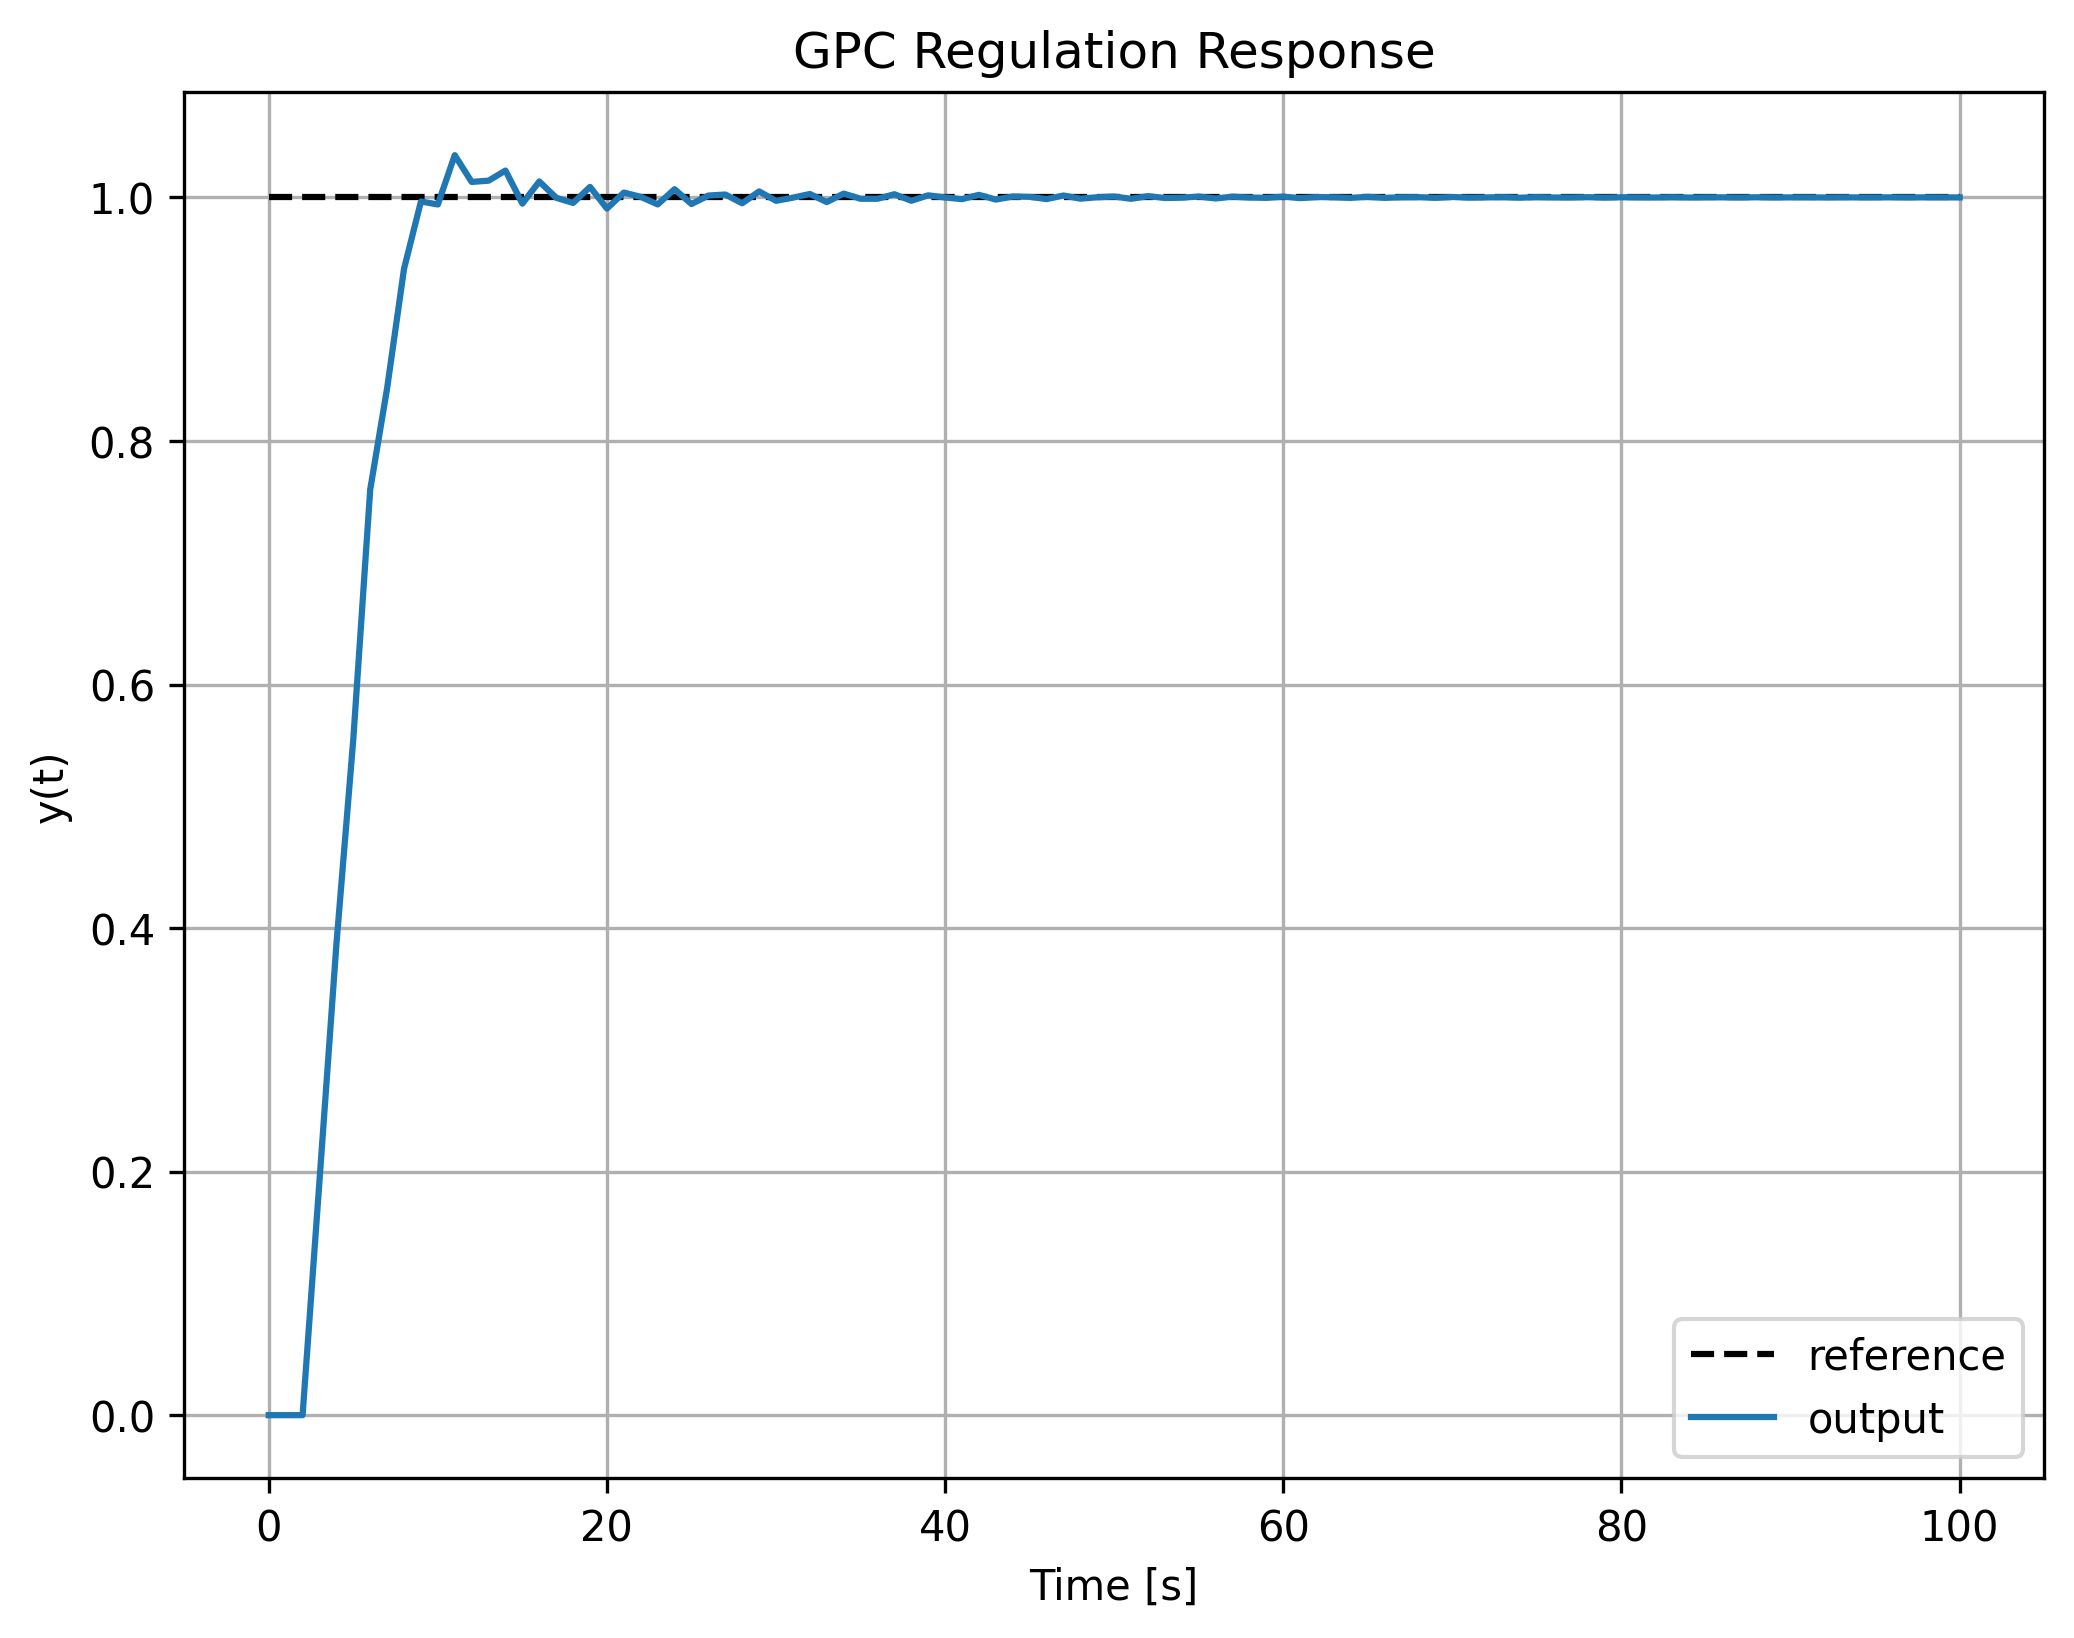
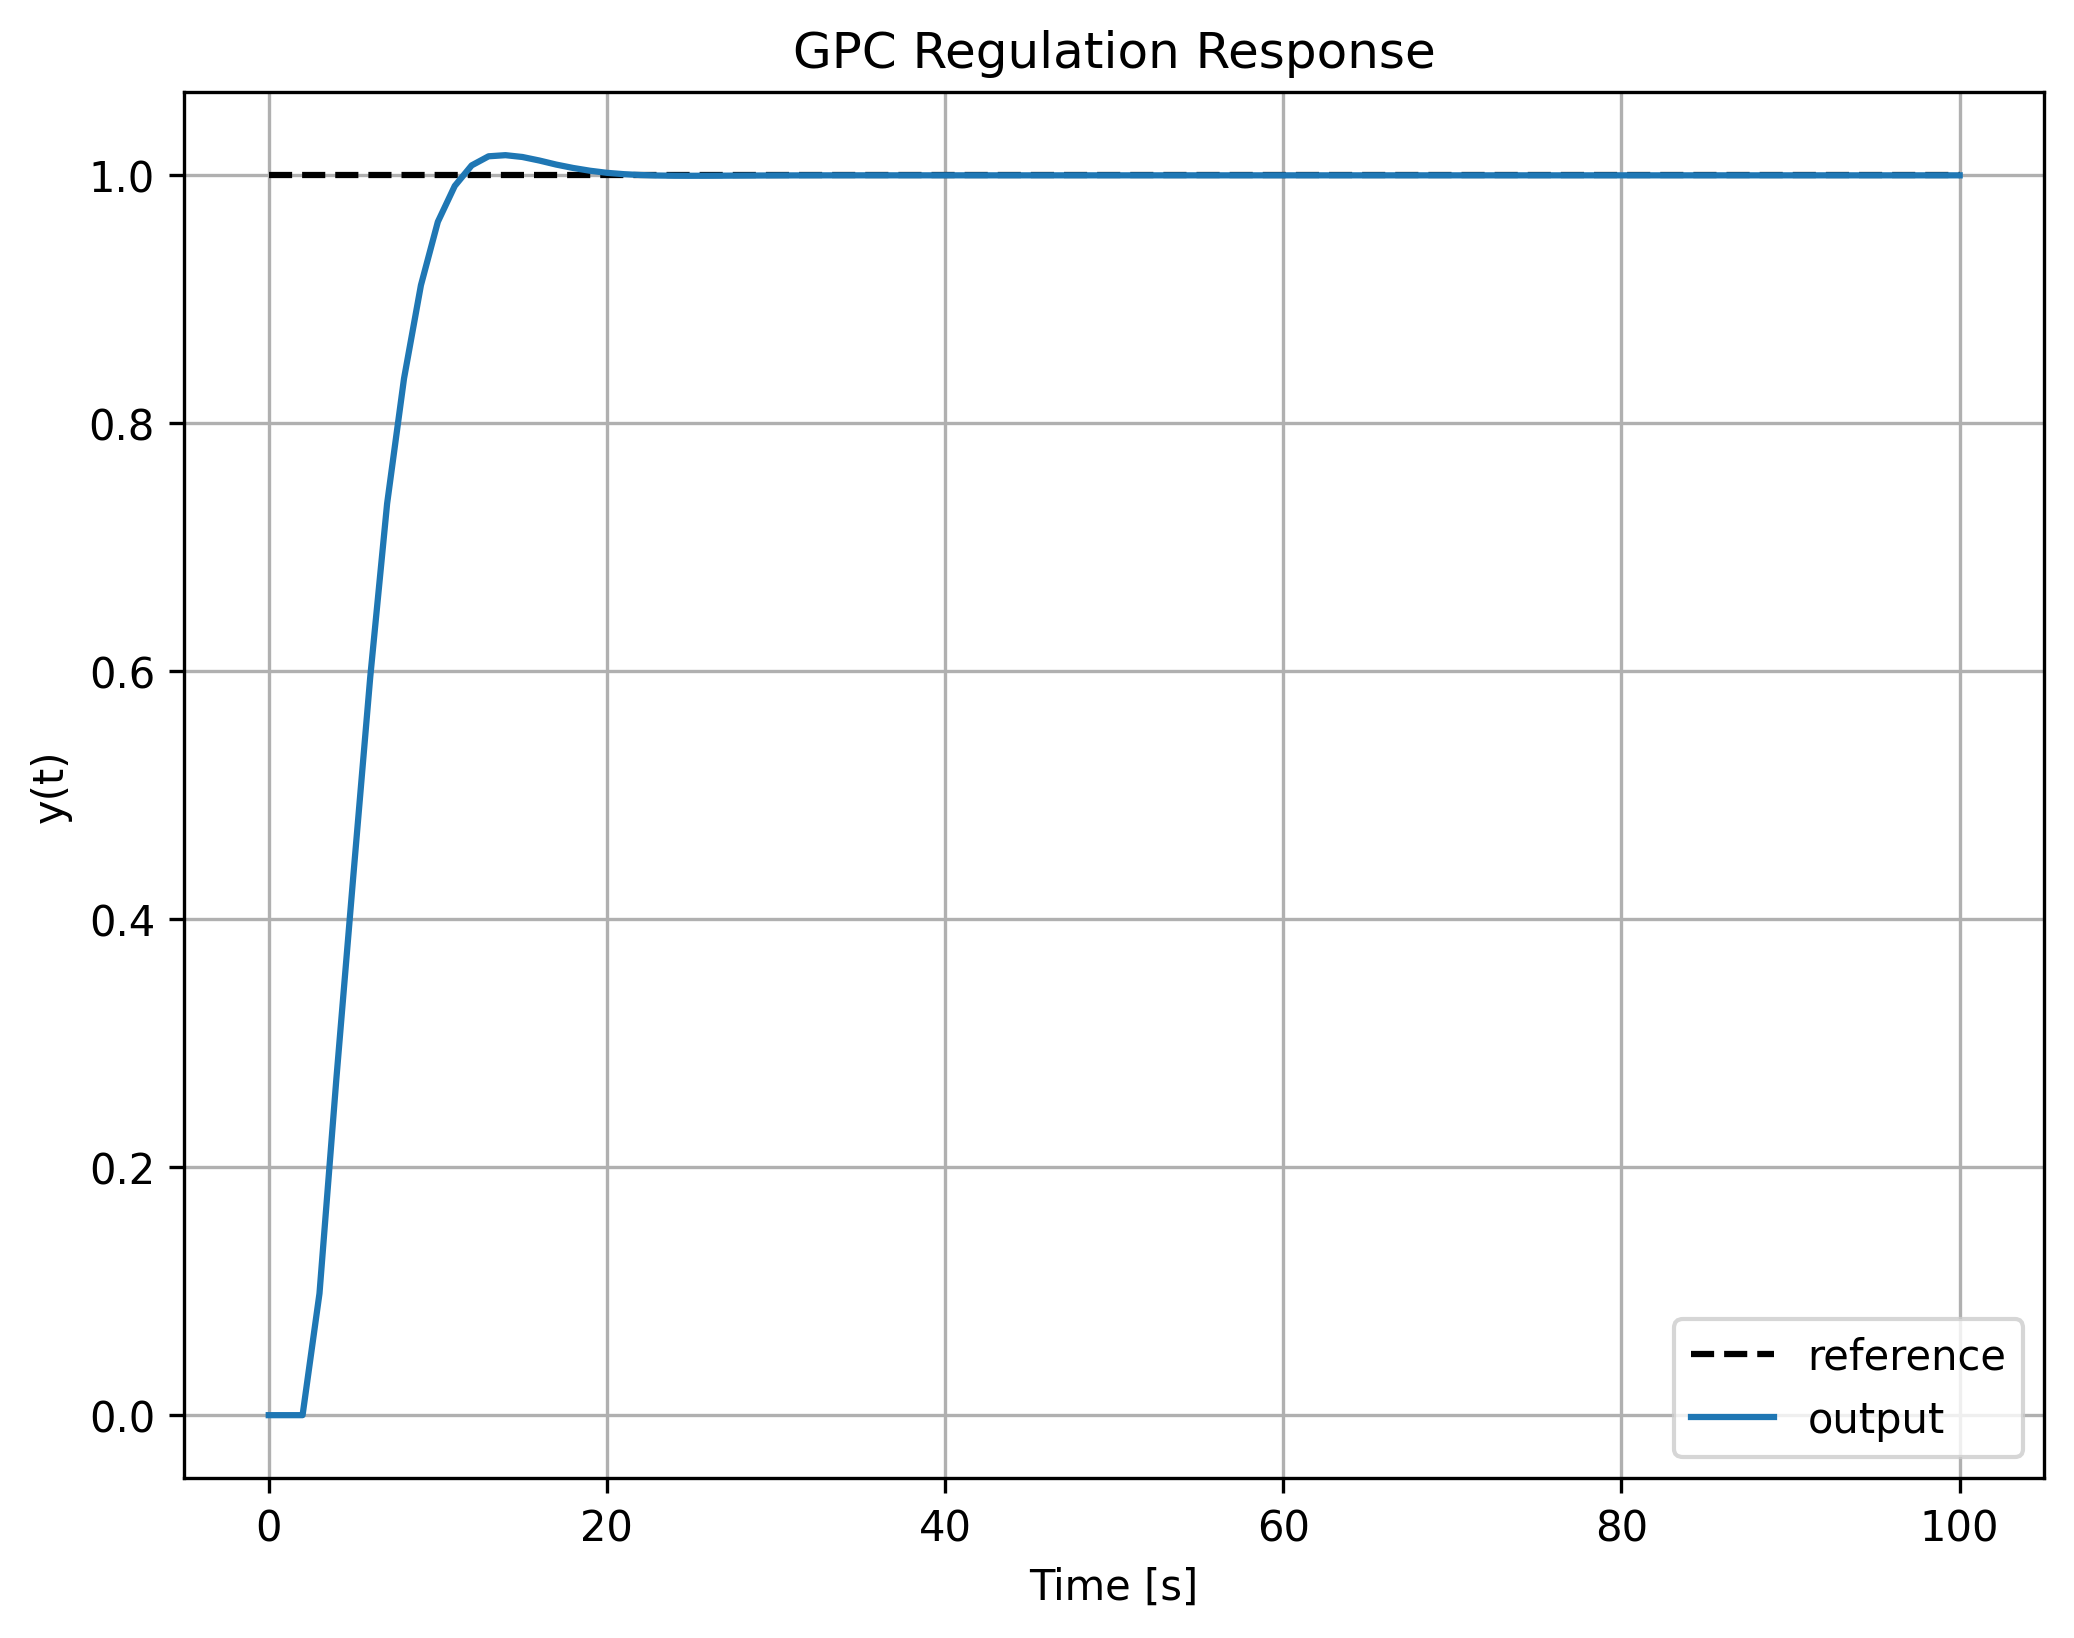
enhance GPC responce, editing penalization factor

Changed region(s): [[0.0309, 0.0934, 0.9875, 0.8407], [0.0617, 0.685, 0.0926, 0.7161]]

diff --git a/main.py b/main.py
@@ -48,7 +48,7 @@ def main():
         controller_p.append(third_pole)
         regulator = PolePlacementRegulator(den_d, num_d, controller_p, dt)
     elif args.controller == "gpc":
-        regulator = GeneralPredictiveController(num_d, den_d, 10, 0.1)
+        regulator = GeneralPredictiveController(num_d, den_d, 10, 0.6)
     else:
         t_open, step_resp = signal.step(plant, T=t)
         sim.plot_responce(t_open, step_resp, ref, mode,
